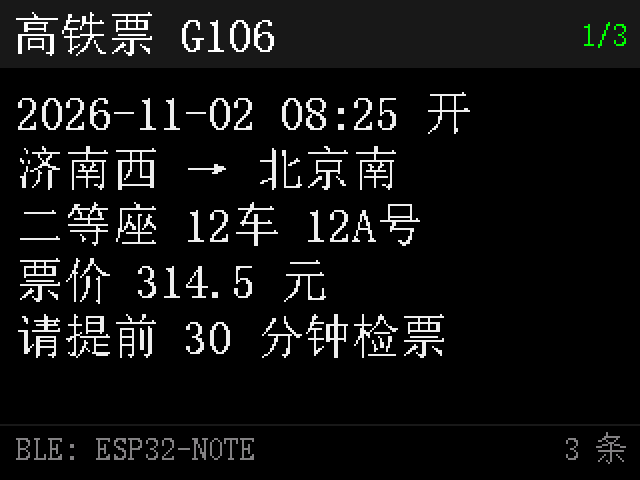
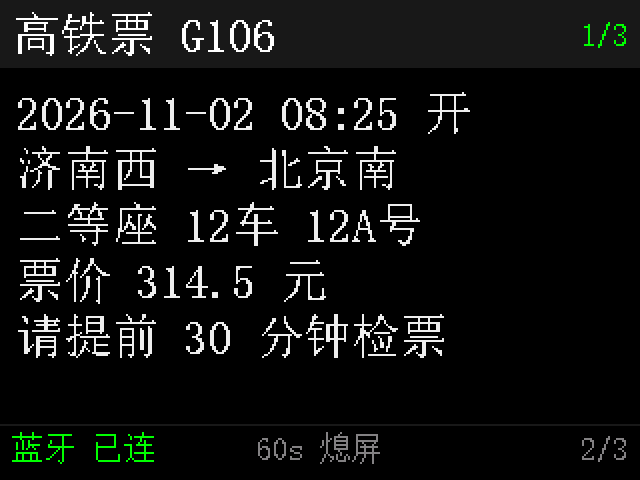
docs: 预览脚本按新的三段页脚渲染，修正截断；README 页脚说明对齐

Changed region(s): [[0.0, 0.9062, 0.4688, 0.9688], [0.875, 0.9062, 1.0, 0.9688], [0.5, 0.9062, 0.5938, 0.9688]]

diff --git a/scripts/preview_ui.py b/scripts/preview_ui.py
@@ -123,7 +123,9 @@ def main():
         "请提前 30 分钟检票",
     ])
     ap.add_argument("--page", default="1/3")
-    ap.add_argument("--count", default="3 条")
+    ap.add_argument("--link", default="已连", help="已连 / 广播")
+    ap.add_argument("--ot", default="60s 熄屏", help="常亮 / 60s 熄屏")
+    ap.add_argument("--pgtext", default="2/3", help="页脚右侧的页码文字")
     ap.add_argument("--out", default=os.path.join(os.environ.get("TEMP", "."), "ui_preview.png"))
     args = ap.parse_args()
 
@@ -143,8 +145,12 @@ def main():
 
     for x in range(W):
         img.putpixel((x, FOOT_LINE), C_BAR)
-    small.draw(img, 8, FOOT_Y, "BLE: ESP32-NOTE", C_DIM, 200)
-    small.draw(img, W - 6 - small.width(args.count), FOOT_Y, args.count, C_DIM)
+    # 页脚三段：左连接态、中熄屏设置、右页码（与 ui.cpp 的 ui_footer_refresh() 一致）
+    left = "蓝牙 " + args.link
+    left_color = C_ACCENT if args.link.startswith("已连") else C_DIM
+    small.draw(img, 6, FOOT_Y, left, left_color, -1)
+    small.draw(img, (W - small.width(args.ot)) // 2, FOOT_Y, args.ot, C_DIM, -1)
+    small.draw(img, 314 - small.width(args.pgtext), FOOT_Y, args.pgtext, C_DIM, -1)
 
     os.makedirs(os.path.dirname(os.path.abspath(args.out)), exist_ok=True)
     img.save(args.out)

diff --git a/firmware/notepad/README.md b/firmware/notepad/README.md
@@ -83,7 +83,7 @@ T 高铁票 G106|2026-11-02 08:25 开|济南西 → 北京南|二等座 12车 12
 │ 正文 24px，行距 28，最多 6 行  │
 │ …                            │
 ├──────────────────────────────┤ 212
-│ 蓝牙 已连   60s 熄屏   第2/共3 │ 16px 页脚（左：连接态；中：常亮/熄屏；右：页码）
+│ 蓝牙 已连      60s 熄屏      2/3 │ 16px 页脚（左：连接态；中：常亮/熄屏；右：页码）
 └──────────────────────────────┘
 ```
 
@@ -95,7 +95,7 @@ T 高铁票 G106|2026-11-02 08:25 开|济南西 → 北京南|二等座 12车 12
 |---|---|---|
 | 左 | `蓝牙 已连`（亮绿） / `蓝牙 广播`（灰） | 手机连着没有 |
 | 中 | `60s 熄屏` / `常亮` / `30s 熄屏` | 当前的自动熄屏设置，跟着 `O` 指令变 |
-| 右 | `第2/共3` | 当前看到第几条、一共几条 |
+| 右 | `2/3` | 当前看到第几条、一共几条（标题条右上角同款） |
 
 ## M2：熄屏与敲击唤醒
 
